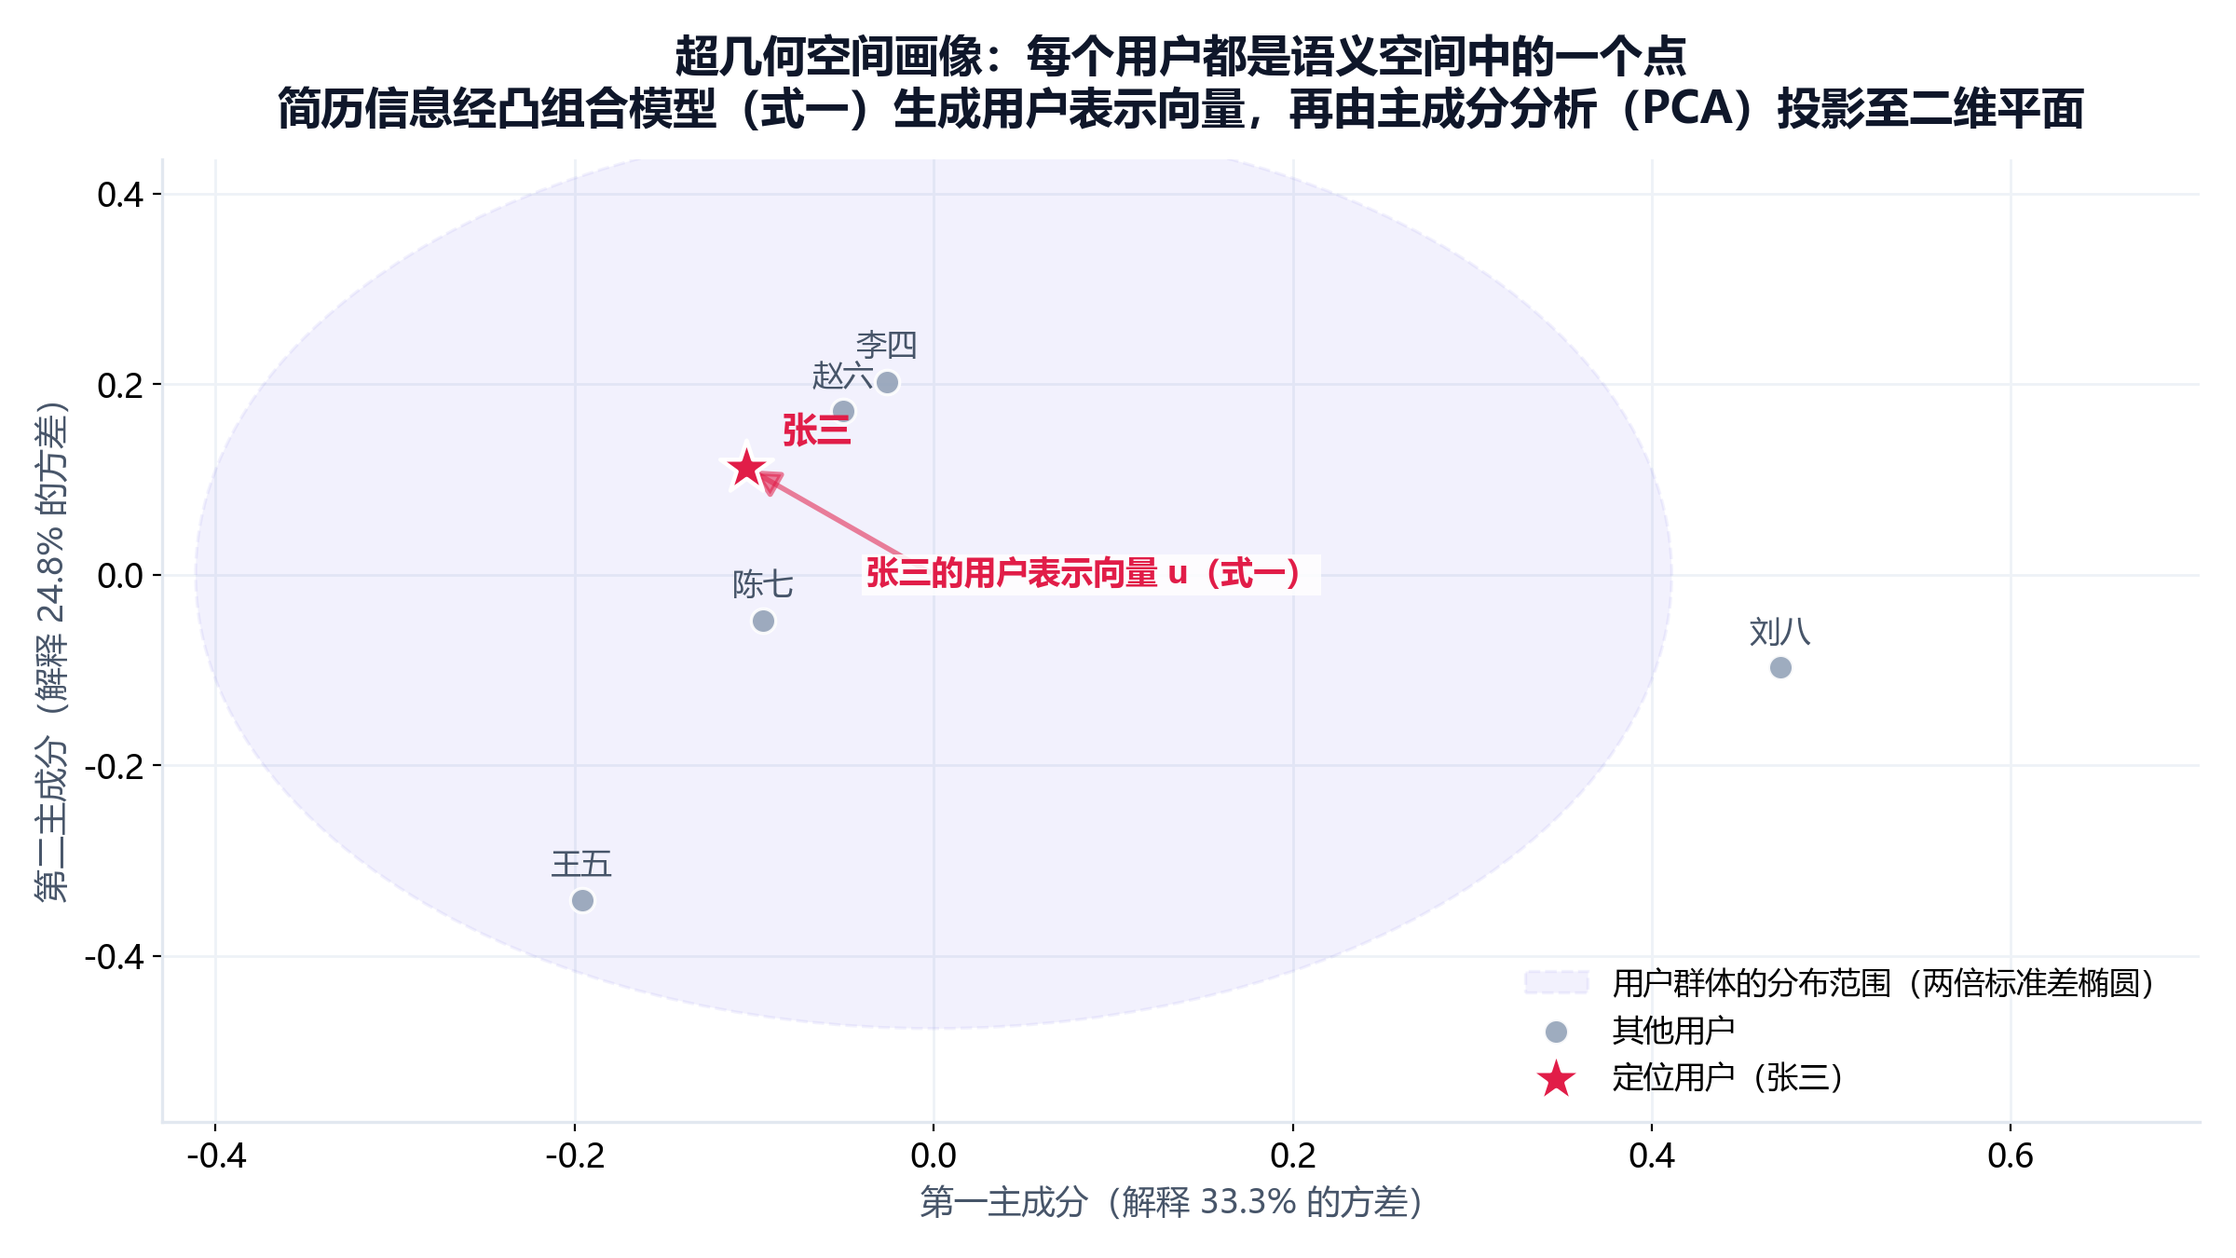
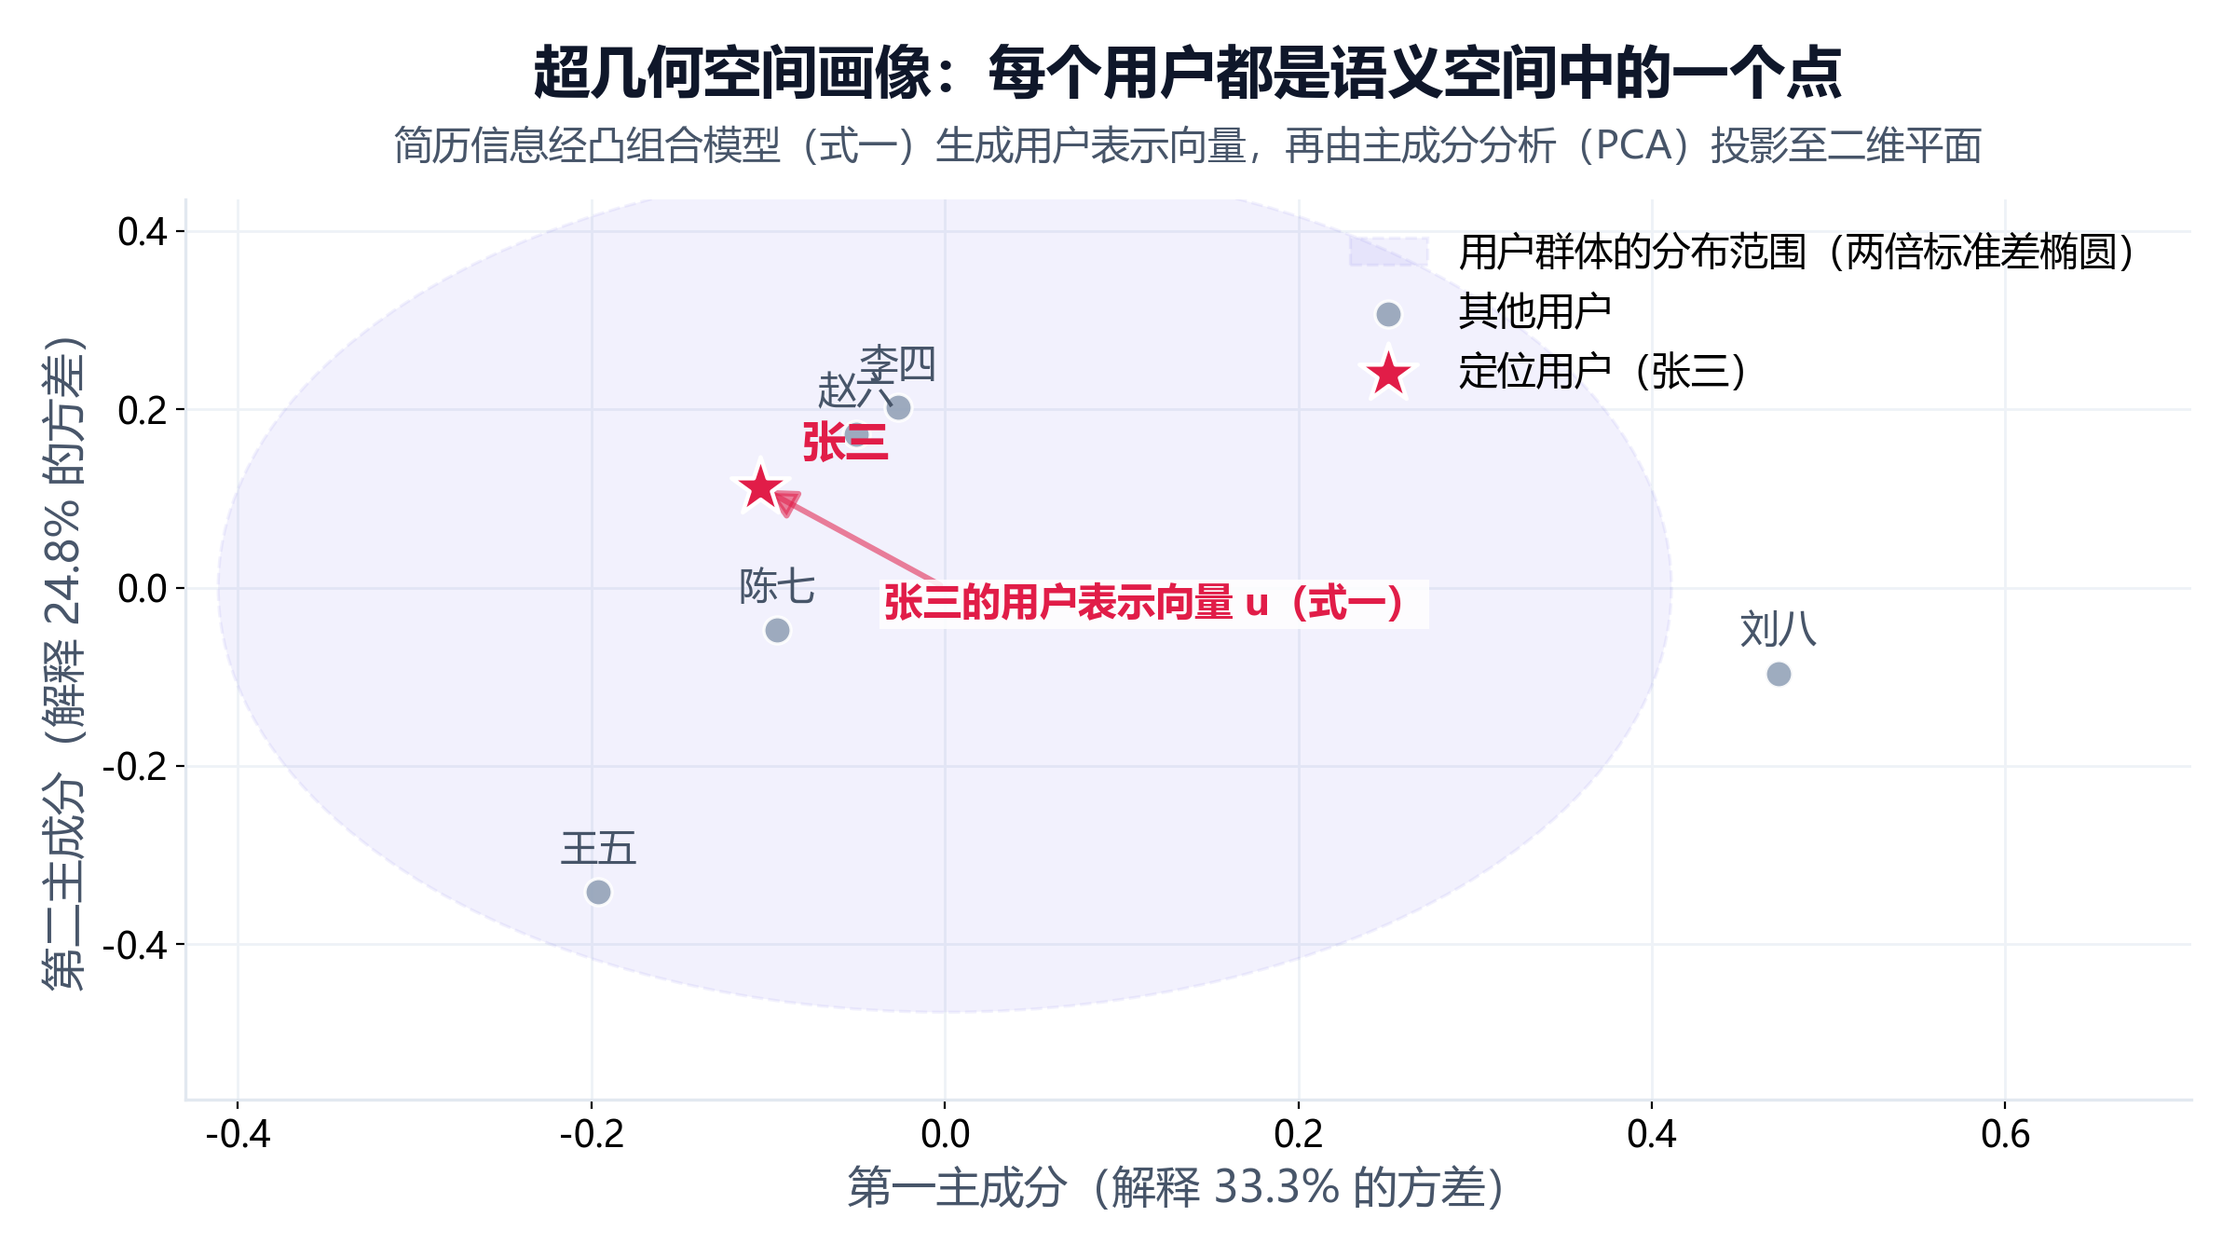
docs(defense): 答辩图按投影标准放大字号、消除全部重叠
- 主标题22/副标题15分级,图内标注>=13,轴标签17
- 雷达图改 suptitle 版式:标题与顶部轴标签不再相碰,图例竖排右侧
- 3D 副标题改 text2D 兼容 Axes3D

diff --git a/_defense_figs.py b/_defense_figs.py
@@ -3,10 +3,10 @@
 数据源为本机演示库（6 个用户，式一 user_vec 与统一字段指标），
 运行：python _defense_figs.py  →  docs/defense/fig1~4.png
 
-图面文字规范（防御性书面汉语）：
-- 公式编号首次出现必须与物理含义绑定，如"（式一·凸组合模型）"；
-- 缩写首次出现给全称，如"主成分分析（PCA）"、"两倍标准差椭圆"；
-- 每张图脱离上下文独立成立，评委只看这一页也能读懂。
+图面文字规范（答辩投影场景）：
+- 双层表达：第一行白话结论（大字号），第二行技术表述（公式编号与含义绑定）；
+- 缩写首次出现给全称：主成分分析（PCA）、两倍标准差椭圆、反馈修正项 δ；
+- 字号按投影可读性设计：主标题 ≥22，图内标注 ≥13，任何文字不重叠。
 """
 import json
 import os
@@ -37,7 +37,9 @@ plt.rcParams.update({
     "axes.facecolor": "white",
     "axes.edgecolor": LINE,
     "axes.linewidth": 1.2,
-    "font.size": 13,
+    "font.size": 16,
+    "xtick.labelsize": 14,
+    "ytick.labelsize": 14,
 })
 TARGET_NAME = "张三"
 
@@ -48,6 +50,14 @@ def _style_ax(ax, grid=True):
     if grid:
         ax.grid(True, color="#EEF2F7", linewidth=1)
         ax.set_axisbelow(True)
+
+
+def _titles(ax, main, sub, main_size=22, sub_size=15, pad=42):
+    """主标题（白话结论，大字）+ 副标题（技术表述，小字灰）。"""
+    ax.set_title(main, fontsize=main_size, color=INK, fontweight="bold", pad=pad)
+    text2d = getattr(ax, "text2D", ax.text)  # Axes3D 用 text2D
+    text2d(0.5, 1.035, sub, transform=ax.transAxes, ha="center", va="bottom",
+           fontsize=sub_size, color=SLATE)
 
 
 def _load():
@@ -87,32 +97,33 @@ def fig1(ids, names, X):
                          label="用户群体的分布范围（两倍标准差椭圆）"))
 
     others = [i for i in range(len(ids)) if i != t_idx]
-    ax.scatter(proj[others, 0], proj[others, 1], s=90, c=MUTED, alpha=0.9,
+    ax.scatter(proj[others, 0], proj[others, 1], s=110, c=MUTED, alpha=0.9,
                edgecolors="white", linewidths=1.2, zorder=3, label="其他用户")
     for i in others:
         ax.annotate(names[ids[i]], (proj[i, 0], proj[i, 1]),
-                    xytext=(0, 10), textcoords="offset points",
-                    ha="center", fontsize=12, color=SLATE)
+                    xytext=(0, 12), textcoords="offset points",
+                    ha="center", fontsize=15, color=SLATE)
     # 用户向量箭头（质心→目标）
     ax.add_patch(FancyArrowPatch((0, 0), proj[t_idx], arrowstyle="-|>",
-                                 mutation_scale=22, color=ACCENT, alpha=0.55,
-                                 linewidth=2, zorder=2))
-    ax.scatter(*proj[t_idx], s=460, marker="*", c=ACCENT, edgecolors="white",
+                                 mutation_scale=24, color=ACCENT, alpha=0.55,
+                                 linewidth=2.2, zorder=2))
+    ax.scatter(*proj[t_idx], s=560, marker="*", c=ACCENT, edgecolors="white",
                linewidths=1.6, zorder=4, label="定位用户（%s）" % TARGET_NAME)
-    ax.annotate(TARGET_NAME, proj[t_idx], xytext=(14, 10), textcoords="offset points",
-                fontsize=13.5, color=ACCENT, fontweight="bold")
+    ax.annotate(TARGET_NAME, proj[t_idx], xytext=(16, 12), textcoords="offset points",
+                fontsize=17, color=ACCENT, fontweight="bold")
     mid = proj[t_idx] / 2
-    ax.annotate("%s的用户表示向量 u（式一）" % TARGET_NAME, mid, xytext=(10, -24),
-                textcoords="offset points", fontsize=12.5, color=ACCENT,
+    ax.annotate("%s的用户表示向量 u（式一）" % TARGET_NAME, mid, xytext=(12, -30),
+                textcoords="offset points", fontsize=15, color=ACCENT,
                 fontweight="bold",
-                bbox=dict(fc="white", ec="none", alpha=0.85, pad=1.5))
+                bbox=dict(fc="white", ec="none", alpha=0.85, pad=1.8))
 
-    ax.set_xlabel("第一主成分（解释 %.1f%% 的方差）" % (var[0] * 100), color=SLATE)
-    ax.set_ylabel("第二主成分（解释 %.1f%% 的方差）" % (var[1] * 100), color=SLATE)
-    ax.set_title("超几何空间画像：每个用户都是语义空间中的一个点\n"
-                 "简历信息经凸组合模型（式一）生成用户表示向量，再由主成分分析（PCA）投影至二维平面",
-                 fontsize=17, color=INK, fontweight="bold", pad=14)
-    ax.legend(loc="best", frameon=False, fontsize=12)
+    ax.set_xlabel("第一主成分（解释 %.1f%% 的方差）" % (var[0] * 100),
+                  color=SLATE, fontsize=17)
+    ax.set_ylabel("第二主成分（解释 %.1f%% 的方差）" % (var[1] * 100),
+                  color=SLATE, fontsize=17)
+    _titles(ax, "超几何空间画像：每个用户都是语义空间中的一个点",
+            "简历信息经凸组合模型（式一）生成用户表示向量，再由主成分分析（PCA）投影至二维平面")
+    ax.legend(loc="upper right", frameon=False, fontsize=15)
     pad = 0.35 * np.ptp(proj[:, 0])
     ax.set_xlim(proj[:, 0].min() - pad, proj[:, 0].max() + pad)
     ax.set_ylim(proj[:, 1].min() - pad, proj[:, 1].max() + pad)
@@ -139,26 +150,28 @@ def fig2(feat):
     tvals += tvals[:1]; mvals += mvals[:1]; ang += ang[:1]
 
     fig, ax = plt.subplots(figsize=(12, 6.75), dpi=200, subplot_kw=dict(polar=True))
-    ax.plot(ang, mvals, color=MUTED, linewidth=2, label="群体均值（6 名用户）")
+    ax.plot(ang, mvals, color=MUTED, linewidth=2.2, label="群体均值（6 名用户）")
     ax.fill(ang, mvals, color=MUTED, alpha=0.12)
-    ax.plot(ang, tvals, color=PRIMARY, linewidth=2.6, label="定位用户（%s）" % TARGET_NAME)
+    ax.plot(ang, tvals, color=PRIMARY, linewidth=2.8, label="定位用户（%s）" % TARGET_NAME)
     ax.fill(ang, tvals, color=PRIMARY, alpha=0.18)
     ax.set_xticks(ang[:-1])
-    ax.set_xticklabels(axes_names, fontsize=13.5, color=INK)
+    ax.set_xticklabels(axes_names, fontsize=17, color=INK)
     ax.set_ylim(0, 1.05)
     ax.set_yticks([0.25, 0.5, 0.75, 1.0])
-    ax.set_yticklabels(["0.25", "0.50", "0.75", "1.00"], fontsize=10, color=MUTED)
+    ax.set_yticklabels(["0.25", "0.50", "0.75", "1.00"], fontsize=12, color=MUTED)
     ax.grid(color=LINE, linewidth=1)
     ax.spines["polar"].set_color(LINE)
     for a, v in zip(ang[:-1], tvals[:-1]):
-        ax.annotate("%.2f" % v, (a, v * 0.92), xytext=(0, 5), textcoords="offset points",
-                    ha="center", fontsize=10.5, color=PRIMARY, fontweight="bold",
-                    bbox=dict(fc="white", ec="none", alpha=0.85, pad=0.8))
-    ax.set_title("定位用户与群体均值的六维画像对比\n"
-                 "六个维度取自统一字段数据库并归一化至 0~1，六边形越饱满，用户画像越全面",
-                 fontsize=17, color=INK, fontweight="bold", pad=22)
-    ax.legend(loc="lower right", bbox_to_anchor=(1.16, -0.06), frameon=False, fontsize=12)
-    fig.tight_layout()
+        ax.annotate("%.2f" % v, (a, v * 0.85), xytext=(0, 6), textcoords="offset points",
+                    ha="center", fontsize=14, color=PRIMARY, fontweight="bold",
+                    bbox=dict(fc="white", ec="none", alpha=0.85, pad=1.0))
+    fig.suptitle("定位用户与群体均值的六维画像对比",
+                 fontsize=22, color=INK, fontweight="bold", y=0.975)
+    fig.text(0.5, 0.905, "六个维度取自统一字段数据库并归一化至 0~1，六边形越饱满，用户画像越全面",
+             ha="center", fontsize=15, color=SLATE)
+    fig.legend(loc="center left", bbox_to_anchor=(0.775, 0.42),
+               frameon=False, fontsize=14)
+    fig.tight_layout(rect=[0.01, 0.03, 0.80, 0.86])
     fig.savefig(os.path.join(OUT, "fig2_radar.png"))
     plt.close(fig)
     print("saved fig2")
@@ -167,7 +180,7 @@ def fig2(feat):
 # ================================================================ fig3 匹配几何（式二·式三）
 def fig3():
     fig = plt.figure(figsize=(12, 6.75), dpi=200)
-    gs = fig.add_gridspec(1, 2, width_ratios=[1.15, 1], wspace=0.22)
+    gs = fig.add_gridspec(1, 2, width_ratios=[1.15, 1], wspace=0.24)
     ax = fig.add_subplot(gs[0])
     _style_ax(ax, grid=False)
 
@@ -176,51 +189,51 @@ def fig3():
     jobs = [("岗位A", 16, ACCENT, "cosθ = 0.96", "强匹配"),
             ("岗位B", 42, GOLD, "cosθ = 0.74", None),
             ("岗位C", 78, MUTED, "cosθ = 0.21", "低于阈值，淘汰")]
-    ax.add_patch(FancyArrowPatch(origin, uvec, arrowstyle="-|>", mutation_scale=26,
-                                 color=PRIMARY, linewidth=3.2, zorder=4))
-    ax.text(0.5, -0.1, "用户表示向量 u（式一）", color=PRIMARY, fontsize=13.5,
+    ax.add_patch(FancyArrowPatch(origin, uvec, arrowstyle="-|>", mutation_scale=28,
+                                 color=PRIMARY, linewidth=3.4, zorder=4))
+    ax.text(0.42, -0.11, "用户表示向量 u（式一）", color=PRIMARY, fontsize=16.5,
             fontweight="bold")
     for name, deg, color, note, verdict in jobs:
         v = np.array([np.cos(np.radians(deg)), np.sin(np.radians(deg))]) * 0.92
-        ax.add_patch(FancyArrowPatch(origin, v, arrowstyle="-|>", mutation_scale=18,
-                                     color=color, linewidth=2, zorder=3, alpha=0.9))
-        ax.text(v[0] * 1.1, v[1] * 1.1, name, color=color, fontsize=12.5, fontweight="bold",
-                ha="center")
+        ax.add_patch(FancyArrowPatch(origin, v, arrowstyle="-|>", mutation_scale=20,
+                                     color=color, linewidth=2.2, zorder=3, alpha=0.9))
+        ax.text(v[0] * 1.12, v[1] * 1.12, name, color=color, fontsize=16,
+                fontweight="bold", ha="center")
         lb = note + (" → " + verdict if verdict else "")
-        ax.annotate(lb, v * 0.55, xytext=(0, 10), textcoords="offset points",
-                    color=color, fontsize=10.5, ha="center",
-                    bbox=dict(fc="white", ec="none", alpha=0.85, pad=0.8))
+        ax.annotate(lb, v * 0.58, xytext=(0, 12), textcoords="offset points",
+                    color=color, fontsize=13.5, ha="center",
+                    bbox=dict(fc="white", ec="none", alpha=0.85, pad=1.0))
     th = np.linspace(0, np.radians(42), 40)
-    ax.plot(0.32 * np.cos(th), 0.32 * np.sin(th), color=SLATE, linewidth=1.4, linestyle="--")
-    ax.text(0.375, 0.055, "θ", fontsize=15, color=SLATE, style="italic")
-    ax.set_xlim(-0.15, 1.35); ax.set_ylim(-0.3, 1.15)
+    ax.plot(0.3 * np.cos(th), 0.3 * np.sin(th), color=SLATE, linewidth=1.4, linestyle="--")
+    ax.text(0.35, 0.05, "θ", fontsize=19, color=SLATE, style="italic")
+    ax.set_xlim(-0.15, 1.4); ax.set_ylim(-0.34, 1.18)
     ax.set_xticks([]); ax.set_yticks([])
-    ax.text(-0.1, -0.22, "夹角越小，岗位与用户的匹配程度越高",
-            fontsize=12, color=SLATE)
-    ax.set_title("用户与岗位的匹配程度由向量夹角度量（式二）\n"
-                 "余弦相似度 cos(u, j) = u·j ∕ (|u|·|j|)",
-                 fontsize=14.5, color=INK, fontweight="bold", pad=10)
+    ax.text(-0.1, -0.26, "夹角越小，岗位与用户的匹配程度越高",
+            fontsize=15, color=SLATE)
+    _titles(ax, "用户与岗位的匹配程度由向量夹角度量（式二）",
+            "余弦相似度 cos(u, j) = u·j ∕ (|u|·|j|)",
+            main_size=17.5, sub_size=14.5, pad=34)
 
     ax2 = fig.add_subplot(gs[1])
     _style_ax(ax2)
     x = np.linspace(-1, 1, 200)
     p = 1 / (1 + np.exp(-(3.2 * x)))
-    ax2.plot(x, p, color=PRIMARY, linewidth=2.8)
+    ax2.plot(x, p, color=PRIMARY, linewidth=3)
     for xv, cv, lb in [(0.96, ACCENT, "A"), (0.74, GOLD, "B"), (0.21, MUTED, "C")]:
         yv = 1 / (1 + np.exp(-(3.2 * xv)))
-        ax2.scatter([xv], [yv], s=80, c=cv, zorder=4, edgecolors="white", linewidths=1.2)
-        ax2.annotate(lb, (xv, yv), xytext=(0, 9), textcoords="offset points",
-                     ha="center", fontsize=12, color=cv, fontweight="bold")
+        ax2.scatter([xv], [yv], s=110, c=cv, zorder=4, edgecolors="white", linewidths=1.4)
+        ax2.annotate(lb, (xv, yv), xytext=(0, 11), textcoords="offset points",
+                     ha="center", fontsize=15.5, color=cv, fontweight="bold")
     ax2.axhline(0.5, color=LINE, linewidth=1, linestyle="--")
-    ax2.text(-0.98, 0.86, "冷启动时反馈修正项 δ = 0\n产生投递反馈后 δ 参与打分",
-             fontsize=10.5, color=SLATE,
-             bbox=dict(fc="white", ec=LINE, alpha=0.9, pad=4))
-    ax2.set_xlabel("综合输入（s 为余弦相似度，δ 为反馈修正项）", color=SLATE)
-    ax2.set_ylabel("匹配分 p", color=SLATE)
-    ax2.set_title("匹配分数由逻辑斯谛函数映射生成（式三）\n"
-                  "p = σ(w_s·s + w_δ·δ)",
-                  fontsize=14.5, color=INK, fontweight="bold", pad=10)
-    ax2.set_xlim(-1.05, 1.05); ax2.set_ylim(-0.05, 1.05)
+    ax2.text(-0.96, 0.82, "冷启动时反馈修正项 δ = 0\n产生投递反馈后 δ 参与打分",
+             fontsize=13.5, color=SLATE,
+             bbox=dict(fc="white", ec=LINE, alpha=0.9, pad=4.5))
+    ax2.set_xlabel("综合输入（s 为余弦相似度，δ 为反馈修正项）", color=SLATE, fontsize=15.5)
+    ax2.set_ylabel("匹配分 p", color=SLATE, fontsize=15.5)
+    _titles(ax2, "匹配分数由逻辑斯谛函数映射生成（式三）",
+            "p = σ(w_s·s + w_δ·δ)",
+            main_size=17.5, sub_size=14.5, pad=34)
+    ax2.set_xlim(-1.05, 1.05); ax2.set_ylim(-0.05, 1.08)
 
     fig.tight_layout()
     fig.savefig(os.path.join(OUT, "fig3_match_geometry.png"))
@@ -243,15 +256,15 @@ def fig4(ids, names, X):
     for i in order:
         if i == t_idx:
             continue
-        ax.scatter(proj[i, 0], proj[i, 1], proj[i, 2], s=180, c=MUTED,
+        ax.scatter(proj[i, 0], proj[i, 1], proj[i, 2], s=220, c=MUTED,
                    alpha=0.55 + 0.4 * (depth[i] - depth.min()) / (np.ptp(depth) + 1e-9),
                    edgecolors="white", linewidths=1.4)
-        ax.text(proj[i, 0], proj[i, 1], proj[i, 2] + 0.03, "  " + names[ids[i]],
-                fontsize=12.5, color=SLATE)
-    ax.scatter(*proj[t_idx], s=900, marker="*", c=ACCENT, edgecolors="white",
+        ax.text(proj[i, 0], proj[i, 1], proj[i, 2] + 0.035, "  " + names[ids[i]],
+                fontsize=15.5, color=SLATE)
+    ax.scatter(*proj[t_idx], s=1000, marker="*", c=ACCENT, edgecolors="white",
                linewidths=2, zorder=10)
-    ax.text(proj[t_idx, 0], proj[t_idx, 1], proj[t_idx, 2] + 0.045,
-            "  %s（定位用户）" % TARGET_NAME, fontsize=14, color=ACCENT, fontweight="bold")
+    ax.text(proj[t_idx, 0], proj[t_idx, 1], proj[t_idx, 2] + 0.05,
+            "  %s（定位用户）" % TARGET_NAME, fontsize=17, color=ACCENT, fontweight="bold")
     pad = 0.3 * max(np.ptp(proj[:, 0]), np.ptp(proj[:, 1]), np.ptp(proj[:, 2]))
     ax.set_xlim(proj[:, 0].min() - pad, proj[:, 0].max() + pad)
     ax.set_ylim(proj[:, 1].min() - pad, proj[:, 1].max() + pad)
@@ -260,14 +273,14 @@ def fig4(ids, names, X):
         ax.set_box_aspect((1.2, 1, 0.8))
     except Exception:
         pass
-    ax.set_xlabel("第一主成分（%.0f%%）" % (var[0] * 100), color=SLATE, labelpad=10, fontsize=13)
-    ax.set_ylabel("第二主成分（%.0f%%）" % (var[1] * 100), color=SLATE, labelpad=10, fontsize=13)
-    ax.set_zlabel("第三主成分（%.0f%%）" % (var[2] * 100), color=SLATE, labelpad=10, fontsize=13)
-    ax.tick_params(labelsize=10, colors=MUTED)
-    ax.set_title("超几何空间画像：用户群体在三维主成分空间中的分布\n"
-                 "前三个主成分累计解释 %.0f%% 的方差，点与点的距离反映用户画像的差异"
-                 % (var[:3].sum() * 100),
-                 fontsize=17, color=INK, fontweight="bold", pad=16)
+    ax.set_xlabel("第一主成分（%.0f%%）" % (var[0] * 100), color=SLATE, labelpad=12, fontsize=15.5)
+    ax.set_ylabel("第二主成分（%.0f%%）" % (var[1] * 100), color=SLATE, labelpad=12, fontsize=15.5)
+    ax.set_zlabel("第三主成分（%.0f%%）" % (var[2] * 100), color=SLATE, labelpad=12, fontsize=15.5)
+    ax.tick_params(labelsize=12, colors=MUTED)
+    _titles(ax, "超几何空间画像：用户群体在三维主成分空间中的分布",
+            "前三个主成分累计解释 %.0f%% 的方差，点与点的距离反映用户画像的差异"
+            % (var[:3].sum() * 100),
+            pad=40)
     ax.view_init(elev=22, azim=-52)
     for pane in (ax.xaxis, ax.yaxis, ax.zaxis):
         pane.pane.set_alpha(0.04)
